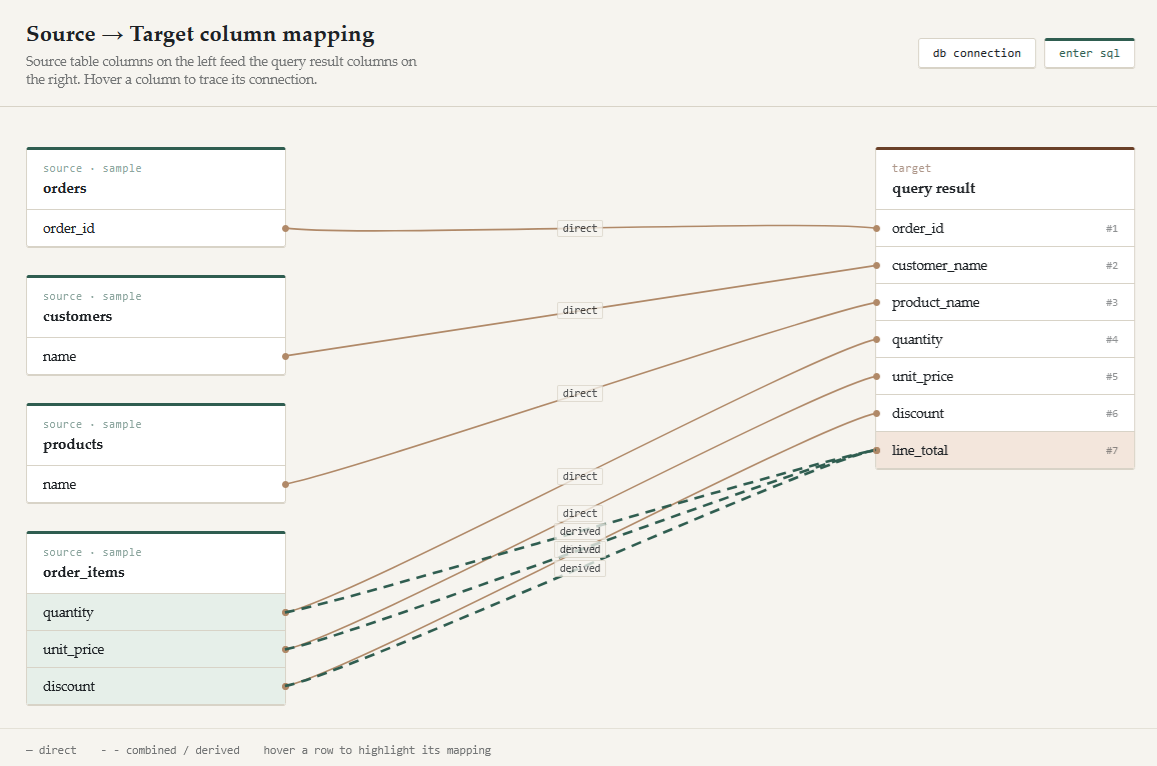
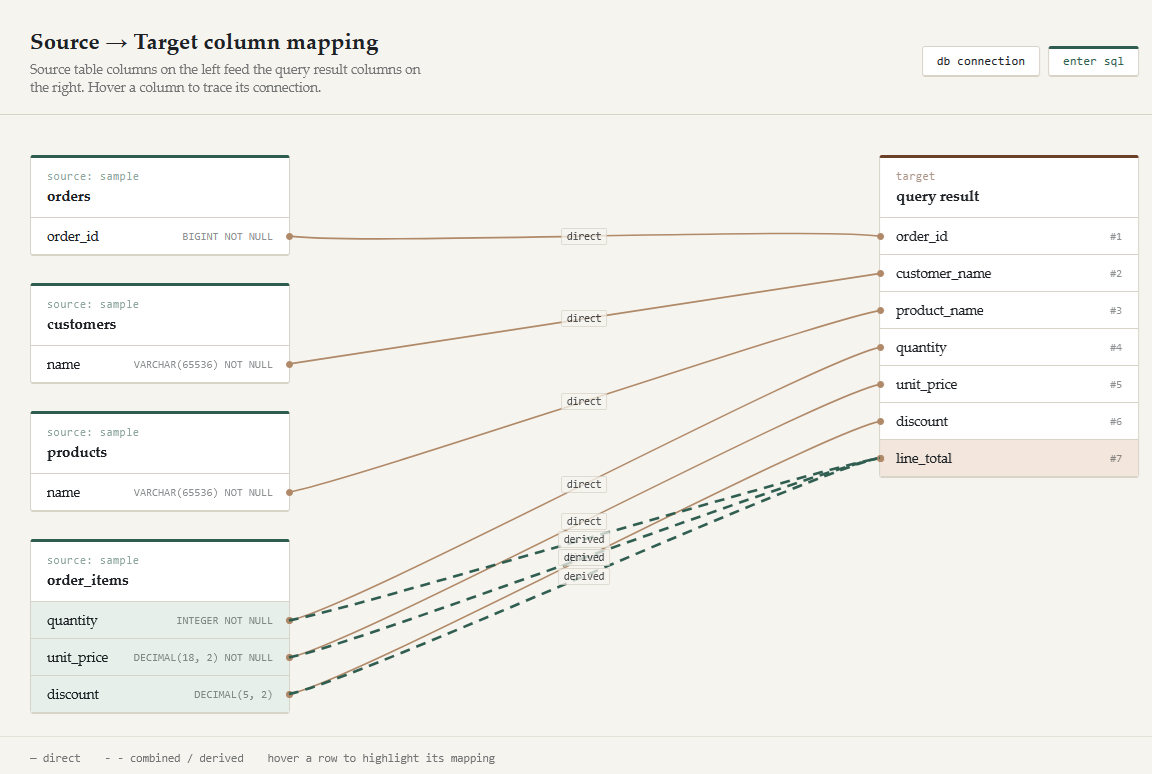
add data type to source tables

diff --git a/src/main/resources/static/column-lineage.js b/src/main/resources/static/column-lineage.js
@@ -107,19 +107,40 @@
             return a.targetColumnOrdinalPosition - b.targetColumnOrdinalPosition;
         });
 
-        // Group source columns by qualified table name, keeping first-seen order.
+        // Group source columns by qualified table name. A column referenced by several
+        // origins keeps its lowest ordinalPosition (and that origin's dataType).
         var sources = {};
         var sourceOrder = [];
         lineages.forEach(function (lineage) {
             (lineage.columnOrigins || []).forEach(function (origin) {
                 var key = origin.qualifiedNames.join(".");
                 if (!sources[key]) {
-                    sources[key] = { qualifiedNames: origin.qualifiedNames, columns: [] };
+                    sources[key] = { qualifiedNames: origin.qualifiedNames, columns: {} };
                     sourceOrder.push(key);
                 }
-                var cols = sources[key].columns;
-                if (cols.indexOf(origin.column) === -1) cols.push(origin.column);
+                var existing = sources[key].columns[origin.column];
+                if (!existing || origin.ordinalPosition < existing.ordinalPosition) {
+                    sources[key].columns[origin.column] = {
+                        column: origin.column,
+                        dataType: origin.dataType,
+                        ordinalPosition: origin.ordinalPosition
+                    };
+                }
             });
+        });
+
+        function byOrdinal(a, b) {
+            return a.ordinalPosition - b.ordinalPosition;
+        }
+        function sortedColumns(src) {
+            return Object.keys(src.columns).map(function (name) {
+                return src.columns[name];
+            }).sort(byOrdinal);
+        }
+
+        // Order source tables by their lowest column ordinalPosition.
+        sourceOrder.sort(function (a, b) {
+            return byOrdinal(sortedColumns(sources[a])[0], sortedColumns(sources[b])[0]);
         });
 
         var sourceCol = el("div", "table-col sources");
@@ -128,8 +149,9 @@
             var names = src.qualifiedNames;
             var schema = names.slice(0, -1).join(".");
             var card = tableCard("source", schema ? "source: " + schema : "source", names[names.length - 1]);
-            src.columns.forEach(function (column) {
-                card.appendChild(row(sourceRowId({ qualifiedNames: names, column: column }), column));
+            sortedColumns(src).forEach(function (col) {
+                card.appendChild(row(sourceRowId({ qualifiedNames: names, column: col.column }),
+                    col.column, col.dataType));
             });
             sourceCol.appendChild(card);
         });

diff --git a/src/main/java/toanlh4/sql/analyzer/columnlineage/PgColumnLineage.java b/src/main/java/toanlh4/sql/analyzer/columnlineage/PgColumnLineage.java
@@ -32,6 +32,7 @@ import java.util.List;
 import java.util.Map;
 import java.util.Properties;
 import java.util.Set;
+import org.apache.calcite.rel.type.RelDataTypeField;
 import org.apache.calcite.sql.parser.SqlParseException;
 import org.apache.calcite.tools.RelConversionException;
 import org.apache.calcite.tools.ValidationException;
@@ -42,7 +43,7 @@ import org.apache.calcite.tools.ValidationException;
  */
 public final class PgColumnLineage {
 
-    private DataSource dataSource;
+    private final DataSource dataSource;
 
     public PgColumnLineage(DataSource dataSource) {
         this.dataSource = dataSource;
@@ -56,10 +57,11 @@ public final class PgColumnLineage {
 
     /**
      * Lists the non-system schemas in the database.
-     * @return 
+     *
+     * @return
      * @throws java.sql.SQLException
      */
-    public List<String> listSchemas() throws SQLException  {
+    public List<String> listSchemas() throws SQLException {
         List<String> schemas = new ArrayList<>();
         try (Connection conn = dataSource.getConnection()) {
             DatabaseMetaData md = conn.getMetaData();
@@ -85,7 +87,7 @@ public final class PgColumnLineage {
      */
     public SchemaPlus registerPostgres(
             List<String> schemaNames
-    ) throws SQLException  {
+    ) throws SQLException {
         SchemaPlus rootSchema = Frameworks.createRootSchema(true);
         List<String> names = (schemaNames == null || schemaNames.isEmpty())
                 ? listSchemas()
@@ -110,7 +112,7 @@ public final class PgColumnLineage {
      * @param rootSchema
      * @param defaultSchemaName schema used to resolve unqualified table names,
      * normally "public"
-     * @return 
+     * @return
      */
     public FrameworkConfig buildConfig(
             SchemaPlus rootSchema,
@@ -154,17 +156,18 @@ public final class PgColumnLineage {
      *
      * {@code null} means Calcite could not determine the origin; an empty list
      * means there is no source column (a literal, for example).
+     *
      * @param config
      * @param sql
-     * @return 
-     * @throws org.apache.calcite.sql.parser.SqlParseException 
-     * @throws org.apache.calcite.tools.ValidationException 
-     * @throws org.apache.calcite.tools.RelConversionException 
+     * @return
+     * @throws org.apache.calcite.sql.parser.SqlParseException
+     * @throws org.apache.calcite.tools.ValidationException
+     * @throws org.apache.calcite.tools.RelConversionException
      */
     public Map<String, List<ColumnOrigin>> analyze(
             FrameworkConfig config,
             String sql
-    ) throws SqlParseException, ValidationException, RelConversionException  {
+    ) throws SqlParseException, ValidationException, RelConversionException {
         // A Planner is single-use: build a fresh one per statement.
         try (Planner planner = Frameworks.getPlanner(config)) {
             SqlNode parsed = planner.parse(sql);
@@ -177,14 +180,18 @@ public final class PgColumnLineage {
             RelNode rel = root.project();
 
             RelMetadataQuery mq = rel.getCluster().getMetadataQuery();
-            List<String> fieldNames = rel.getRowType().getFieldNames();
+            List<RelDataTypeField> fields = rel.getRowType().getFieldList();
             Map<String, List<ColumnOrigin>> result = new LinkedHashMap<>();
 
-            for (int i = 0; i < fieldNames.size(); i++) {
+            for (int i = 0; i < fields.size(); i++) {
                 Set<RelColumnOrigin> origins = mq.getColumnOrigins(rel, i);
+                RelDataTypeField field = fields.get(i);
+                String fieldName = field.getName();
+                String dataType = field.getType().getDigest().getDigestString();
+                
 
                 if (origins == null) {
-                    result.put(fieldNames.get(i), null);
+                    result.put(fieldName, null);
                     continue;
                 }
 
@@ -197,11 +204,13 @@ public final class PgColumnLineage {
                             .getName();
                     columnOrigins.add(new ColumnOrigin(
                             originTable.getQualifiedName(),
+                            field.getIndex(),
                             columnName,
+                            dataType,
                             origin.isDerived())
                     );
                 }
-                result.put(fieldNames.get(i), columnOrigins);
+                result.put(fieldName, columnOrigins);
             }
 
             return result;

diff --git a/src/main/java/toanlh4/sql/analyzer/columnlineage/ColumnOrigin.java b/src/main/java/toanlh4/sql/analyzer/columnlineage/ColumnOrigin.java
@@ -9,16 +9,20 @@ import java.util.List;
  */
 public class ColumnOrigin {
 
-    private List<String> qualifiedNames; // [public, orders]
-    private String column;
+    private List<String> qualifiedNames; // source table [public, orders]
+    private int ordinalPosition; // 0-based index
+    private String column; // source column name
+    private String dataType;
     private boolean isDerived; // went through an expression / aggregate
 
     public ColumnOrigin() {
     }
 
-    public ColumnOrigin(List<String> qualifiedNames, String column, boolean isDerived) {
+    public ColumnOrigin(List<String> qualifiedNames, int ordinalPosition, String column, String dataType, boolean isDerived) {
         this.qualifiedNames = qualifiedNames;
+        this.ordinalPosition = ordinalPosition;
         this.column = column;
+        this.dataType = dataType;
         this.isDerived = isDerived;
     }
 
@@ -30,12 +34,28 @@ public class ColumnOrigin {
         this.qualifiedNames = qualifiedNames;
     }
 
+    public int getOrdinalPosition() {
+        return ordinalPosition;
+    }
+
+    public void setOrdinalPosition(int ordinalPosition) {
+        this.ordinalPosition = ordinalPosition;
+    }
+
     public String getColumn() {
         return column;
     }
 
     public void setColumn(String column) {
         this.column = column;
+    }
+
+    public String getDataType() {
+        return dataType;
+    }
+
+    public void setDataType(String dataType) {
+        this.dataType = dataType;
     }
 
     public boolean isIsDerived() {
@@ -48,6 +68,6 @@ public class ColumnOrigin {
 
     @Override
     public String toString() {
-        return String.join(".", qualifiedNames) + "." + column + (isDerived ? " (derived)" : "");
+        return String.format("%s.%s #%d %s %s", String.join(".", qualifiedNames), column, ordinalPosition, dataType, (isDerived ? " (derived)" : ""));
     }
 }
